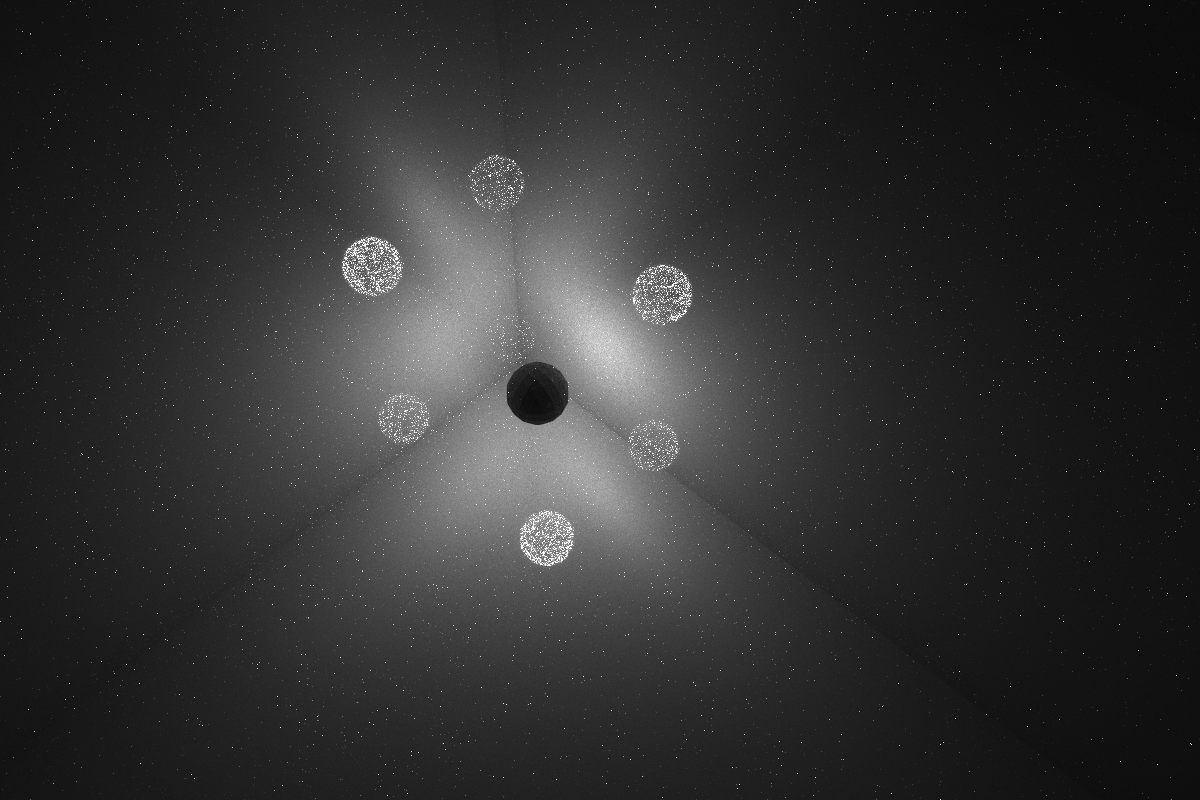
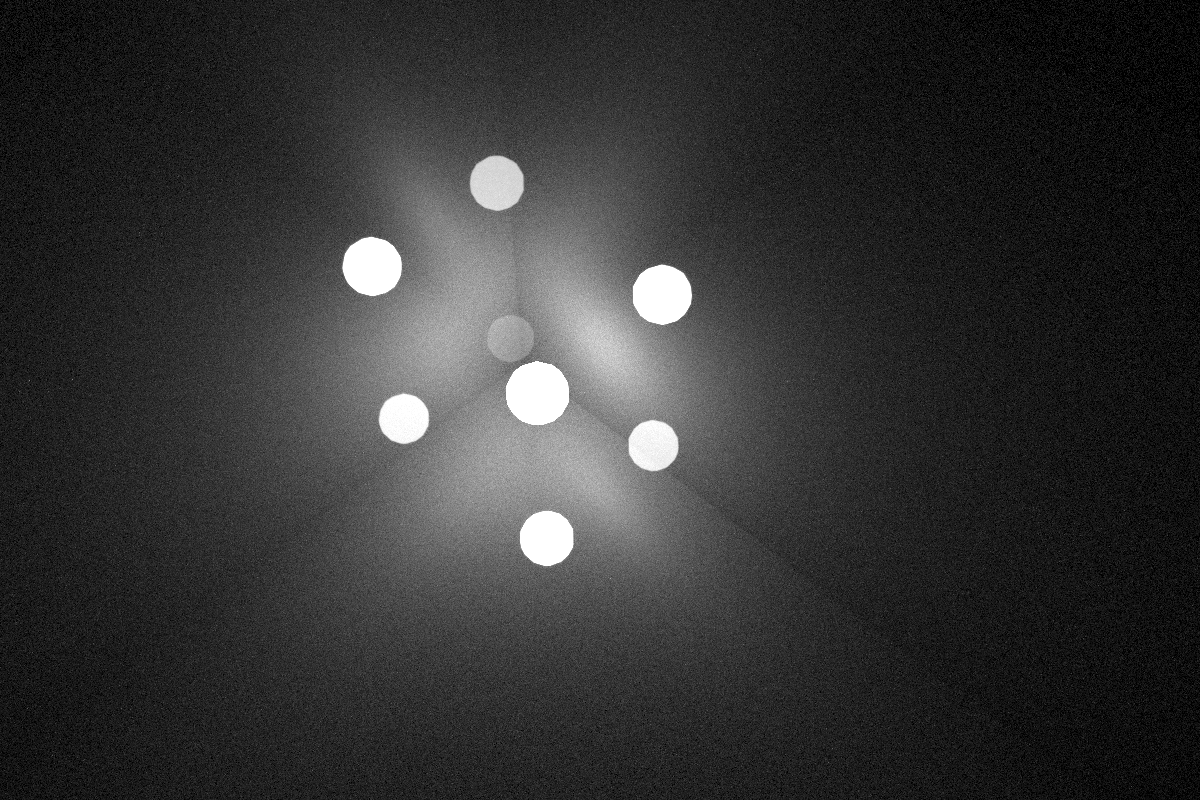
小保存

diff --git a/raytrace_work/BDPT_function.h b/raytrace_work/BDPT_function.h
@@ -6,18 +6,42 @@ namespace osc {
     
     using namespace gdt;
     
-    __forceinline__ __device__ vec3f contriCompute(const BDPTPath& path);
+    __forceinline__ __device__ vec3f contriCompute(const BDPTPath& path,bool lightSample);
     __forceinline__ __device__ float pdfCompute(const BDPTPath& path, int lightPathLength);
-    __forceinline__ __device__ vec3f evalPath(const BDPTPath& path)
+    __forceinline__ __device__ vec3f singlePathContriCompute(const BDPTPath& path);
+    __forceinline__ __device__ vec3f evalPath(const BDPTPath& path, bool lightSample)
     {
         float pdf = 0.0f;
         vec3f contri;
-        contri = contriCompute(path);
-
-        for (int i = 1; i < path.length-1; i++)
+        contri = contriCompute(path,lightSample);
+        for (int i = 1; i <path.length-1; i++)
         {
             if (i > Maxdepth || path.length - i > Maxdepth) continue;
             pdf += pdfCompute(path, i);//i表示光路径中顶点个数
+        }
+
+        vec3f ans = contri / float(pdf);
+        //vec3f ans1 = singlePathContriCompute(path);
+        //printf("%f vs %f\n", ans.x, ans1.x);
+        if (isnan(ans.x) || isnan(ans.y) || isnan(ans.z))
+        {
+            return vec3f(0.0f);
+        }
+        return ans;
+    }
+
+    __forceinline__ __device__ vec3f evalPathTest(const BDPTPath& path,int ix,int iy,bool lightSample)
+    {
+        float pdf = 0.0f;
+        vec3f contri;
+        contri = contriCompute(path,lightSample);
+        printf("%d %d length %d with contri %f\n", ix, iy, path.length, contri.x);
+        for (int i = 1; i < path.length - 1; i++)
+        {
+            if (i > Maxdepth || path.length - i > Maxdepth) continue;
+            float w=pdfCompute(path, i);//i表示光路径中顶点个数
+            printf("%d %d pdf %d with pdfvalue %f\n", ix, iy, i, w);
+            pdf += w;
         }
         //std::printf("contri:%f,length:%d,pdf:%f\n", contri.r,path.length, pdf);
         vec3f ans = contri / float(pdf);
@@ -28,7 +52,7 @@ namespace osc {
         return ans;
     }
 
-    __forceinline__ __device__ vec3f contriCompute(const BDPTPath& path)
+    __forceinline__ __device__ vec3f contriCompute(const BDPTPath& path,bool lightSample)
     {
         vec3f throughput = vec3f(1.0f);
         const BDPTVertex& light = path.vertexs[path.length - 1];
@@ -40,16 +64,15 @@ namespace osc {
         {
             return vec3f(0.0f);
         }
-        vec3f Le = light.mat->emission * lAng;
+        vec3f Le;
+        if (lightSample) {
+            Le = light.mat->emission * lAng;
+        }
+        else
+        {
+            Le = light.mat->emission;
+        }
         throughput *= Le;
-
-        //std::printf("color: %f %f %f\n",light.mat->emission.x, light.mat->emission.y, light.mat->emission.z);
-
-        //const BDPTVertex& eye = path.vertexs[0];
-        //const BDPTVertex& firstHit = path.vertexs[1];
-        //vec3f eyeLine = firstHit.position - eye.position;
-        //vec3f eyeDirection = normalize(eyeLine);
-        //throughput *= dot(eyeDirection, eye.normal);
 
         for (int i = 1; i < path.length - 1; i++)
         {
@@ -58,7 +81,8 @@ namespace osc {
             const BDPTVertex& nextPoint = path.vertexs[i + 1];
             vec3f lastDirection = normalize(lastPoint.position - midPoint.position);
             vec3f nextDirection = normalize(nextPoint.position - midPoint.position);
-            throughput *= abs(dot(midPoint.normal, lastDirection)) * abs(dot(midPoint.normal, nextDirection)) * Eval(*midPoint.mat, midPoint.normal, -lastDirection, nextDirection, midPoint.ext);
+            throughput *= abs(dot(midPoint.normal, lastDirection)) * abs(dot(midPoint.normal, nextDirection)) 
+                * Eval(*midPoint.mat, midPoint.normal, -lastDirection, nextDirection, midPoint.ext);
         }
         return throughput;
     }
@@ -86,14 +110,9 @@ namespace osc {
             const BDPTVertex& nextPoint = path.vertexs[i + 1];
             vec3f lastDirection = normalize(lastPoint.position - midPoint.position);
             vec3f nextDirection = normalize(nextPoint.position - midPoint.position);
-            vec3f EVAL, BRDF;
-            EVAL = Eval(*midPoint.mat, midPoint.normal, -lastDirection, nextDirection, midPoint.ext);
-            BRDF = Pdf_brdf(*midPoint.mat, midPoint.normal, -lastDirection, nextDirection);
-            vec3f xx = -lastDirection;
-            vec3f yy = nextDirection;
             throughput *= abs(dot(midPoint.normal, nextDirection))
-                * EVAL
-                /BRDF / RR_RATE;
+                * Eval(*midPoint.mat, midPoint.normal, -lastDirection, nextDirection, midPoint.ext)
+                / Pdf_brdf(*midPoint.mat, midPoint.normal, -lastDirection, nextDirection) / RR_RATE;
         }
         return throughput;
     }
@@ -104,6 +123,20 @@ namespace osc {
         float pdf = 1.0f;
         const float RR_RATE = 0.8f;
         const int RR_BEGIN_DEPTH = 1;
+        if (lightPathLength == 0) {//直击时独立计算pdf
+            pdf *= pow(RR_RATE, eyePathLength - 2);
+            for (int i = 1; i < eyePathLength - 1; i++)
+            {
+                const BDPTVertex& midPoint = path.vertexs[i];
+                const BDPTVertex& lastPoint = path.vertexs[i - 1];
+                const BDPTVertex& nextPoint = path.vertexs[i + 1];
+                vec3f lastDirection = normalize(lastPoint.position - midPoint.position);
+                vec3f nextDirection = normalize(nextPoint.position - midPoint.position);
+                pdf *= Pdf_brdf(*midPoint.mat, midPoint.normal, -lastDirection, nextDirection)
+                    * abs(dot(midPoint.normal, lastDirection));
+            }
+            return pdf;
+        }
         if (lightPathLength > RR_BEGIN_DEPTH)
         {
             pdf *= pow(RR_RATE, lightPathLength - RR_BEGIN_DEPTH);
@@ -112,7 +145,7 @@ namespace osc {
         {
             pdf *= pow(RR_RATE, eyePathLength - RR_BEGIN_DEPTH);
         }
-
+        
         const BDPTVertex& light = path.vertexs[path.length - 1];
         pdf *= light.pdf;
 
